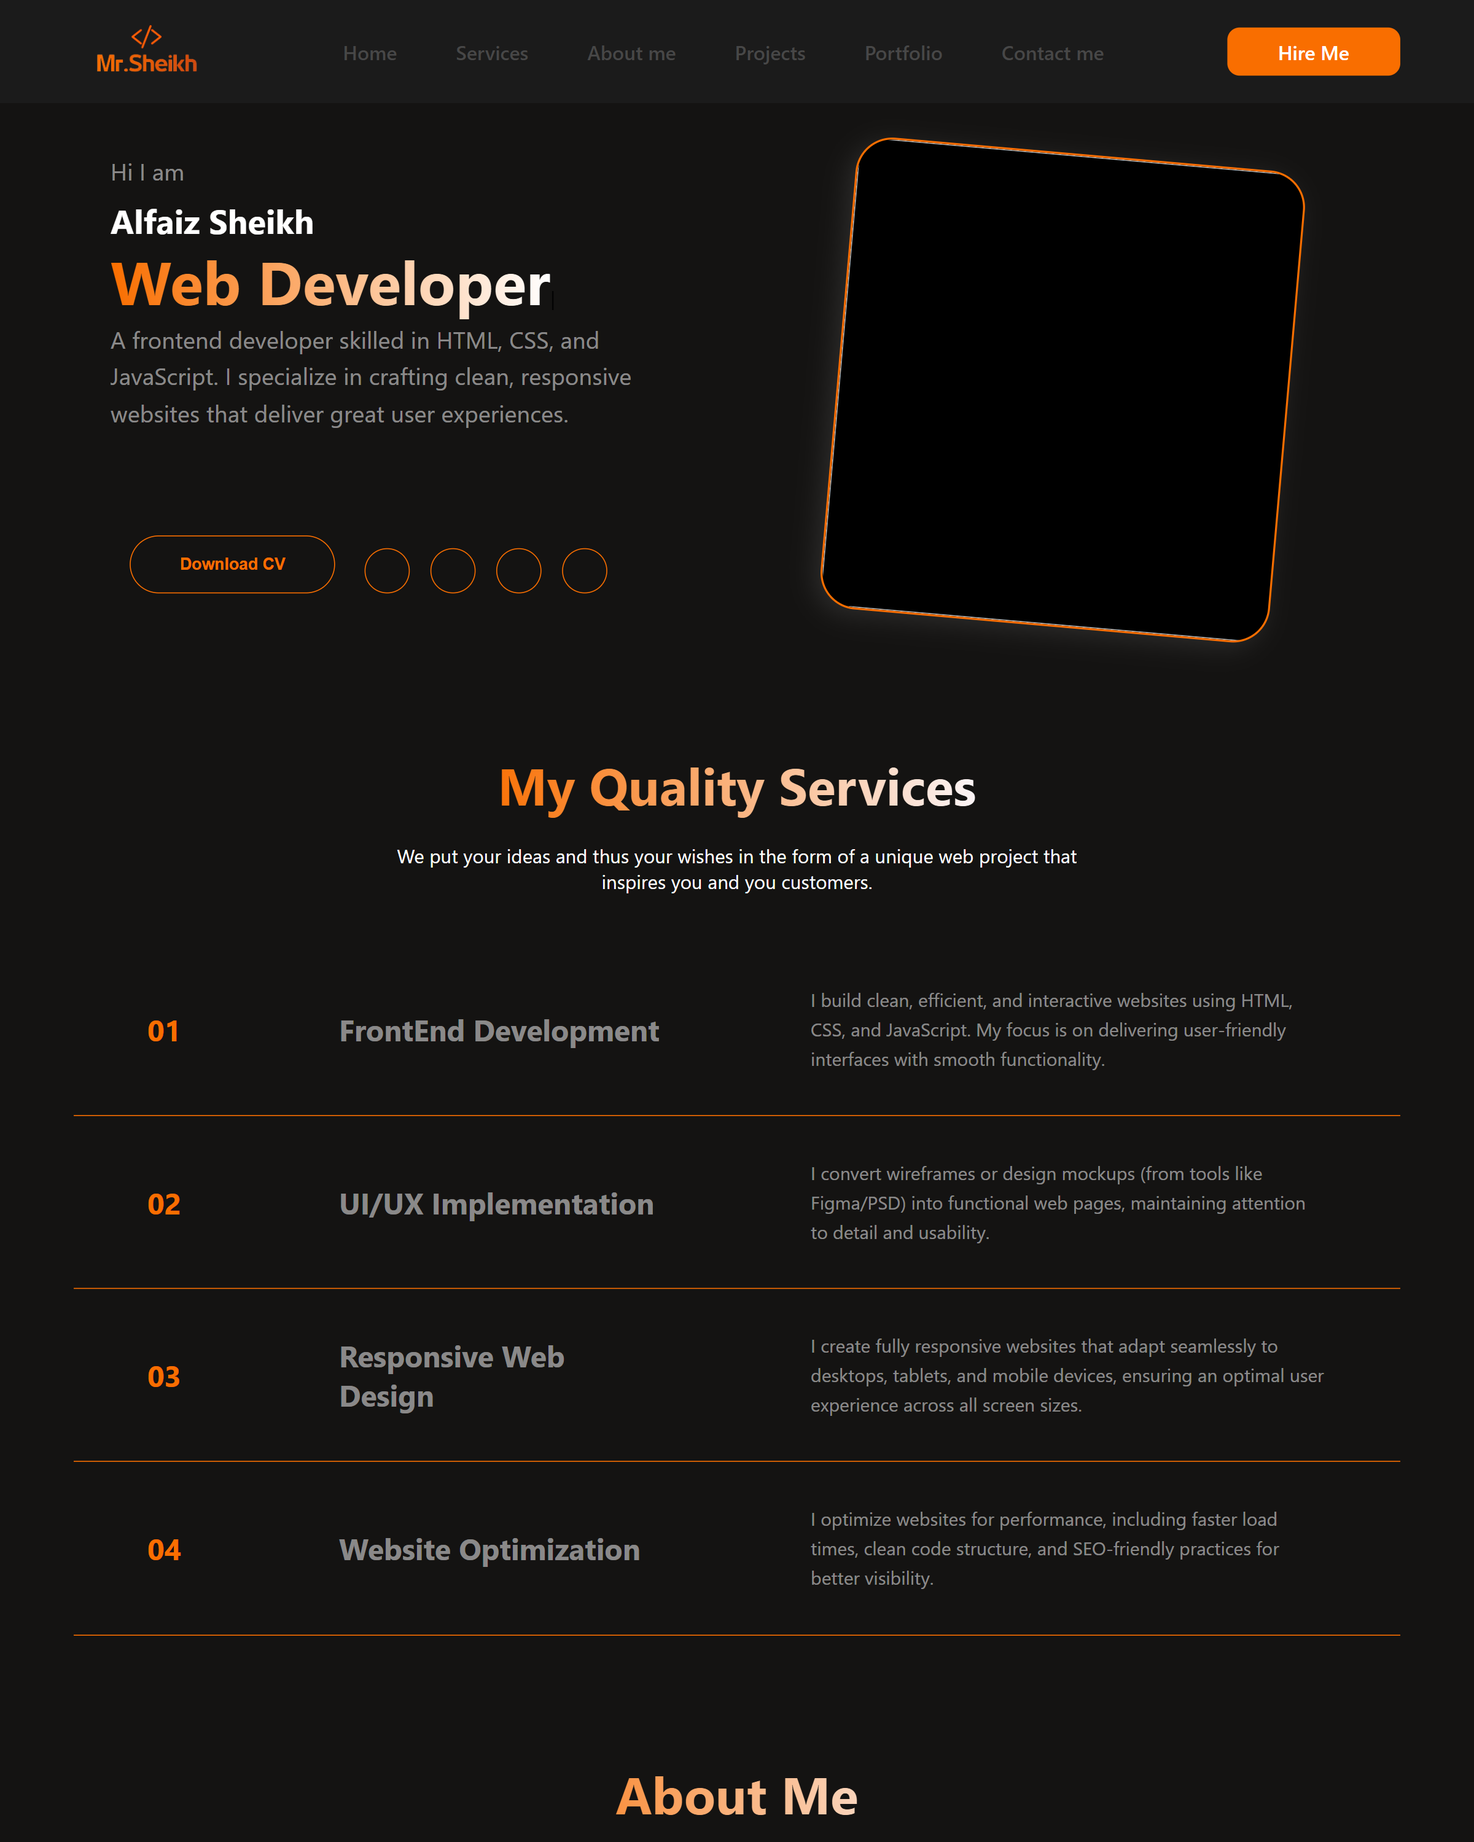
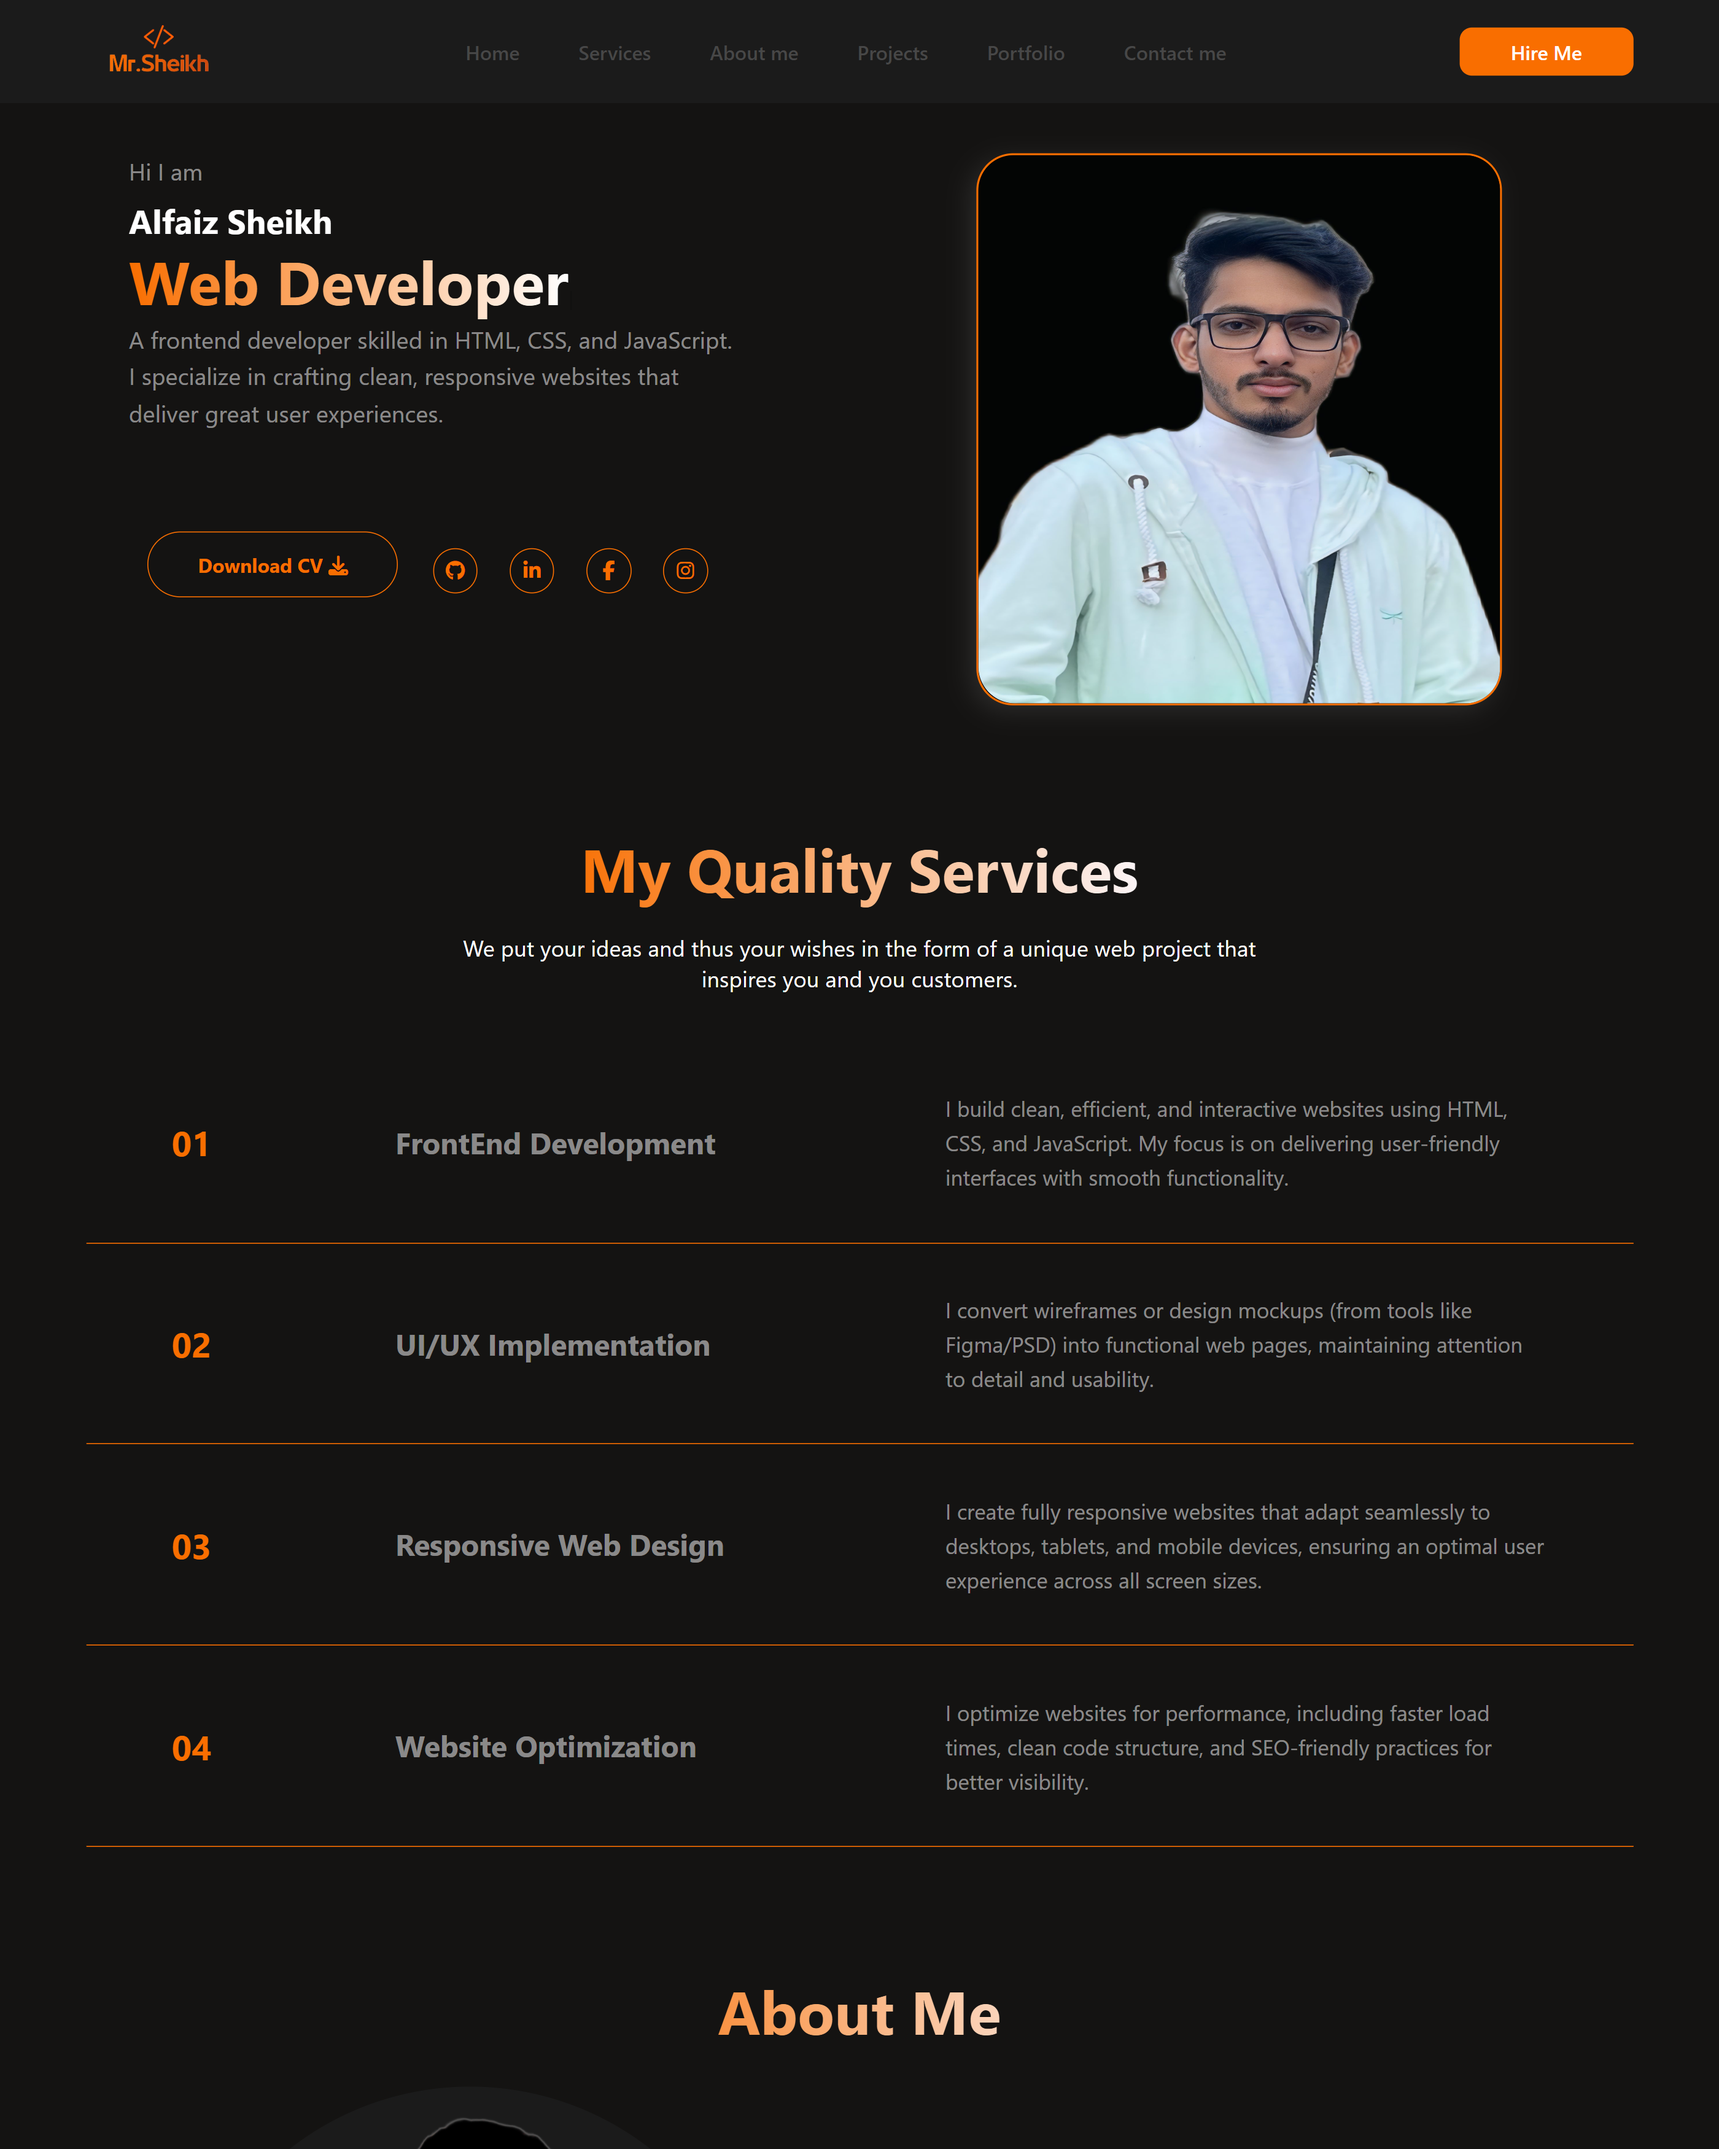
website is fully responsive now

diff --git a/src/components/Contact.css b/src/components/Contact.css
@@ -29,10 +29,12 @@
 .contact-form > input{
     background-color: #141312;
     font-size: 1em;
-    padding: 15px 20px;
+    padding: 15px 0;
+    padding-left: 10px;
     border: 1px solid #22272c;
     border-radius: 7px;
     margin: 10px;
+    width: calc(50% - 40px);
 }
 
 .contact-form > select{
@@ -95,4 +97,96 @@
 
 .contact-desc > a:hover, .contact-desc:hover{
     color: #f96e00;
+}
+
+/* prevent overflow issues */
+#contact{
+  overflow-x: hidden;
+}
+
+/* improve large screen layout */
+.contact-sec{
+  gap: 50px;
+}
+
+/* tablet screens */
+@media (max-width: 1024px){
+  .contact-sec{
+    width: 90%;
+  }
+
+  .contact-form{
+    width: 55%;
+    padding: 40px;
+  }
+
+  .contact-info{
+    width: 45%;
+  }
+
+  .contact-tag{
+    width: 80%;
+  }
+
+  .contact-desc{
+    font-size: 1.1em;
+  }
+}
+
+/* mobile screens */
+@media (max-width: 768px){
+  #contact{
+    padding: 70px 0;
+  }
+
+  .contact-sec{
+    flex-direction: column;
+    text-align: center;
+    gap: 50px;
+  }
+
+  .contact-form{
+    width: 100%;
+    padding: 30px 20px;
+  }
+
+  .contact-form > input,
+  .contact-form > select{
+    width: 100%;
+    margin-left: 0;
+  }
+
+  .contact-form > input[type="textarea"]{
+    width: 100%;
+  }
+
+  .submit-btn{
+    margin-left: 0;
+  }
+
+  .contact-info{
+    width: 100%;
+  }
+
+  .contact-tag{
+    width: 100%;
+    justify-content: center;
+    text-align: left;
+  }
+}
+
+/* small mobile screens */
+@media (max-width: 480px){
+  #contact{
+    padding: 50px 0;
+  }
+
+  .contact-desc{
+    font-size: 1em;
+  }
+
+  .contact-icon{
+    min-width: 42px;
+    font-size: 1.1em;
+  }
 }

diff --git a/src/components/ProjectCard.css b/src/components/ProjectCard.css
@@ -1,30 +1,45 @@
 .projectCard{
-    width: calc(25% - 30px);
-    border-radius: 15px;
-    overflow: hidden;
-    display: flex;
-    flex-direction: column;
-    border: 3px solid #000;
-    transition: all 0.3s ease;
-    text-decoration: none;
-    color: #fff;
+  width: calc(25% - 30px);
+  border-radius: 15px;
+  overflow: hidden;
+  display: flex;
+  flex-direction: column;
+  border: 3px solid #000;
+  transition: all 0.3s ease;
+  text-decoration: none;
+  color: #fff;
 }
 
 .projectCard:hover{
-    color: #f96e00;
+  color: #f96e00;
+  border: 3px solid #f96e00;
 }
 
 .projectImg{
-    width: 100%;
-    filter: brightness(0.8);
+  width: 100%;
+  filter: brightness(0.8);
 }
 
 .cardTxt{
-    width: 100%;
-    padding: 15px 7px;
-    background: #252525;
+  width: 100%;
+  padding: 15px 7px;
+  background: #252525;
 }
 
-.projectCard:hover{
-    border: 3px solid #f96e00;
+@media (max-width: 1200px){
+  .projectCard{
+    width: calc(33.33% - 30px);
+  }
+}
+
+@media (max-width: 992px){
+  .projectCard{
+    width: calc(50% - 20px);
+  }
+}
+
+@media (max-width: 480px){
+  .projectCard{
+    width: calc(50% - 15px);
+  }
 }

diff --git a/src/components/Footer.css b/src/components/Footer.css
@@ -32,3 +32,49 @@ footer > p{
     color: #f96e00;
     margin-top: 40px;
 }
+
+footer{
+  overflow-x: hidden;
+}
+
+@media (max-width: 1024px){
+  .footer-logo{
+    width: 30%;
+  }
+
+  .footer-links{
+    width: 50%;
+  }
+}
+
+@media (max-width: 768px){
+  .footer-logo{
+    width: 40%;
+  }
+
+  .footer-links{
+    width: 70%;
+    flex-wrap: wrap;
+    gap: 20px;
+    justify-content: center;
+  }
+
+  footer > p{
+    margin-top: 30px;
+    font-size: 0.95rem;
+  }
+}
+
+@media (max-width: 480px){
+  .footer-logo{
+    width: 60%;
+  }
+
+  .footer-links{
+    width: 100%;
+  }
+
+  footer > p{
+    font-size: 0.9rem;
+  }
+}

diff --git a/src/components/Projects.css b/src/components/Projects.css
@@ -46,3 +46,48 @@
   color: #f96e00;
   font-weight: 600;
 }
+
+@media (max-width: 1024px){
+  .projects{
+    width: 90%;
+  }
+}
+
+@media (max-width: 768px){
+  #project-sec{
+    padding-top: 70px;
+  }
+
+  .projects-menu{
+    gap: 15px;
+  }
+
+  .projects-menu li{
+    padding: 8px 20px;
+    font-size: 0.95rem;
+  }
+
+  .projects{
+    width: 95%;
+    justify-content: center;
+  }
+}
+
+@media (max-width: 480px){
+  #project-sec{
+    padding-top: 50px;
+  }
+
+  .projects-menu{
+    gap: 10px;
+  }
+
+  .projects-menu li{
+    padding: 7px 16px;
+    font-size: 0.9rem;
+  }
+
+  .projects{
+    gap: 15px;
+  }
+}

diff --git a/src/components/About.css b/src/components/About.css
@@ -51,3 +51,47 @@
         text-align: center;
     }
 }
+
+/* max width for large screens */
+.about{
+  max-width: 1200px;
+  gap: 40px;
+}
+
+/* improve image behavior */
+.about-img img{
+  height: auto;
+  display: block;
+}
+
+/* tablet screens */
+@media (max-width: 1024px){
+  .about{
+    width: 90%;
+  }
+
+  .about-img{
+    width: 45%;
+  }
+}
+
+/* small mobile screens */
+@media (max-width: 480px){
+  #about-sec{
+    padding: 50px 0;
+  }
+
+  .about{
+    width: 95%;
+    gap: 30px;
+  }
+
+  .about-img{
+    width: 85%;
+  }
+
+  .about-txt p{
+    font-size: 0.95rem;
+    line-height: 1.7;
+  }
+}

diff --git a/src/components/Resume.css b/src/components/Resume.css
@@ -24,3 +24,41 @@
     -webkit-background-clip: text;
     -webkit-text-fill-color: transparent;
 }
+
+@media (max-width: 1024px){
+  #resume{
+    width: 90%;
+    gap: 40px;
+  }
+
+  .resumesec{
+    width: 48%;
+  }
+}
+
+@media (max-width: 768px){
+  #resume{
+    flex-direction: column;
+    padding: 70px 0;
+    gap: 40px;
+  }
+
+  .resumesec{
+    width: 100%;
+  }
+
+  .edutag{
+    margin: 20px 0;
+    border-radius: 15px;
+  }
+}
+
+@media (max-width: 480px){
+  #resume{
+    padding: 50px 0;
+  }
+
+  .edutag h2{
+    font-size: 1.4em;
+  }
+}

diff --git a/src/components/Hero.js b/src/components/Hero.js
@@ -1,6 +1,6 @@
 import "./Hero.css"
 import TypingText from "../components/TypingText";
-import me from "../assets/me.png"
+import me2 from "../assets/me2.jpg"
 
 const Hero = () => {
     return (
@@ -22,7 +22,7 @@ const Hero = () => {
             </div>
             <div class="rightsec">
                 <div class="img">
-                        <img src={me} alt="" />
+                        <img src={me2} alt="" />
                 </div>
             </div>
         </section>

diff --git a/src/components/Hero.css b/src/components/Hero.css
@@ -41,6 +41,7 @@
 
 .img{
     width: 85%;
+    height: auto;
     transform: rotate(5deg);
     aspect-ratio: 1/1.05;
     background-color: #000;
